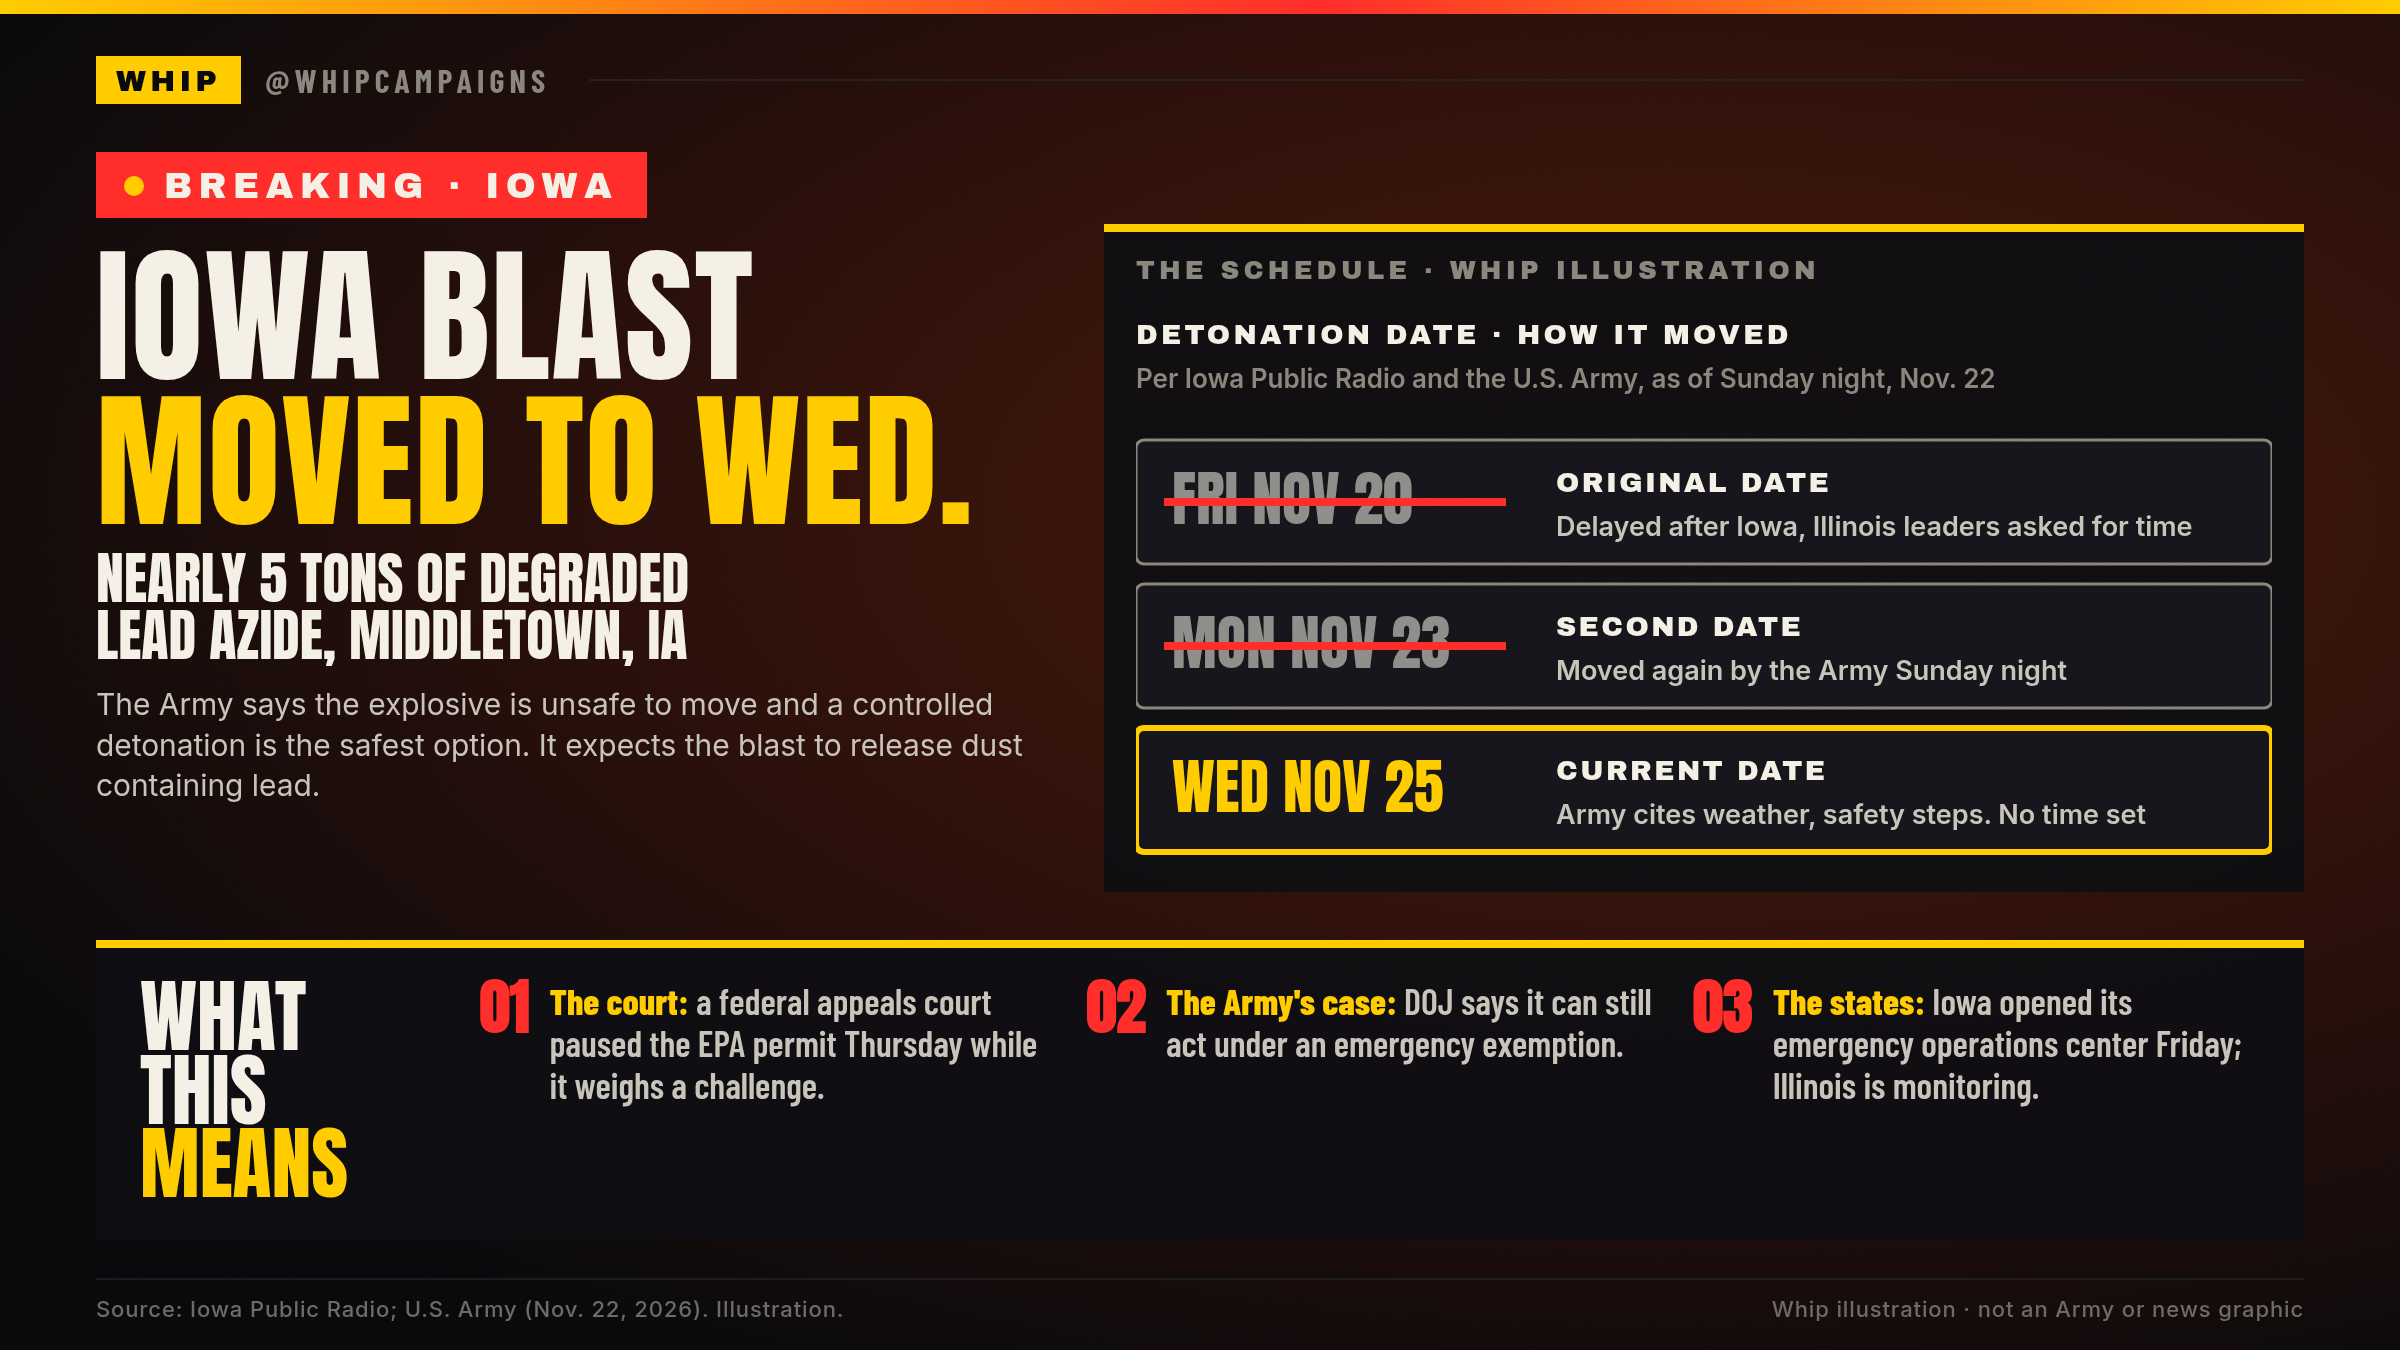
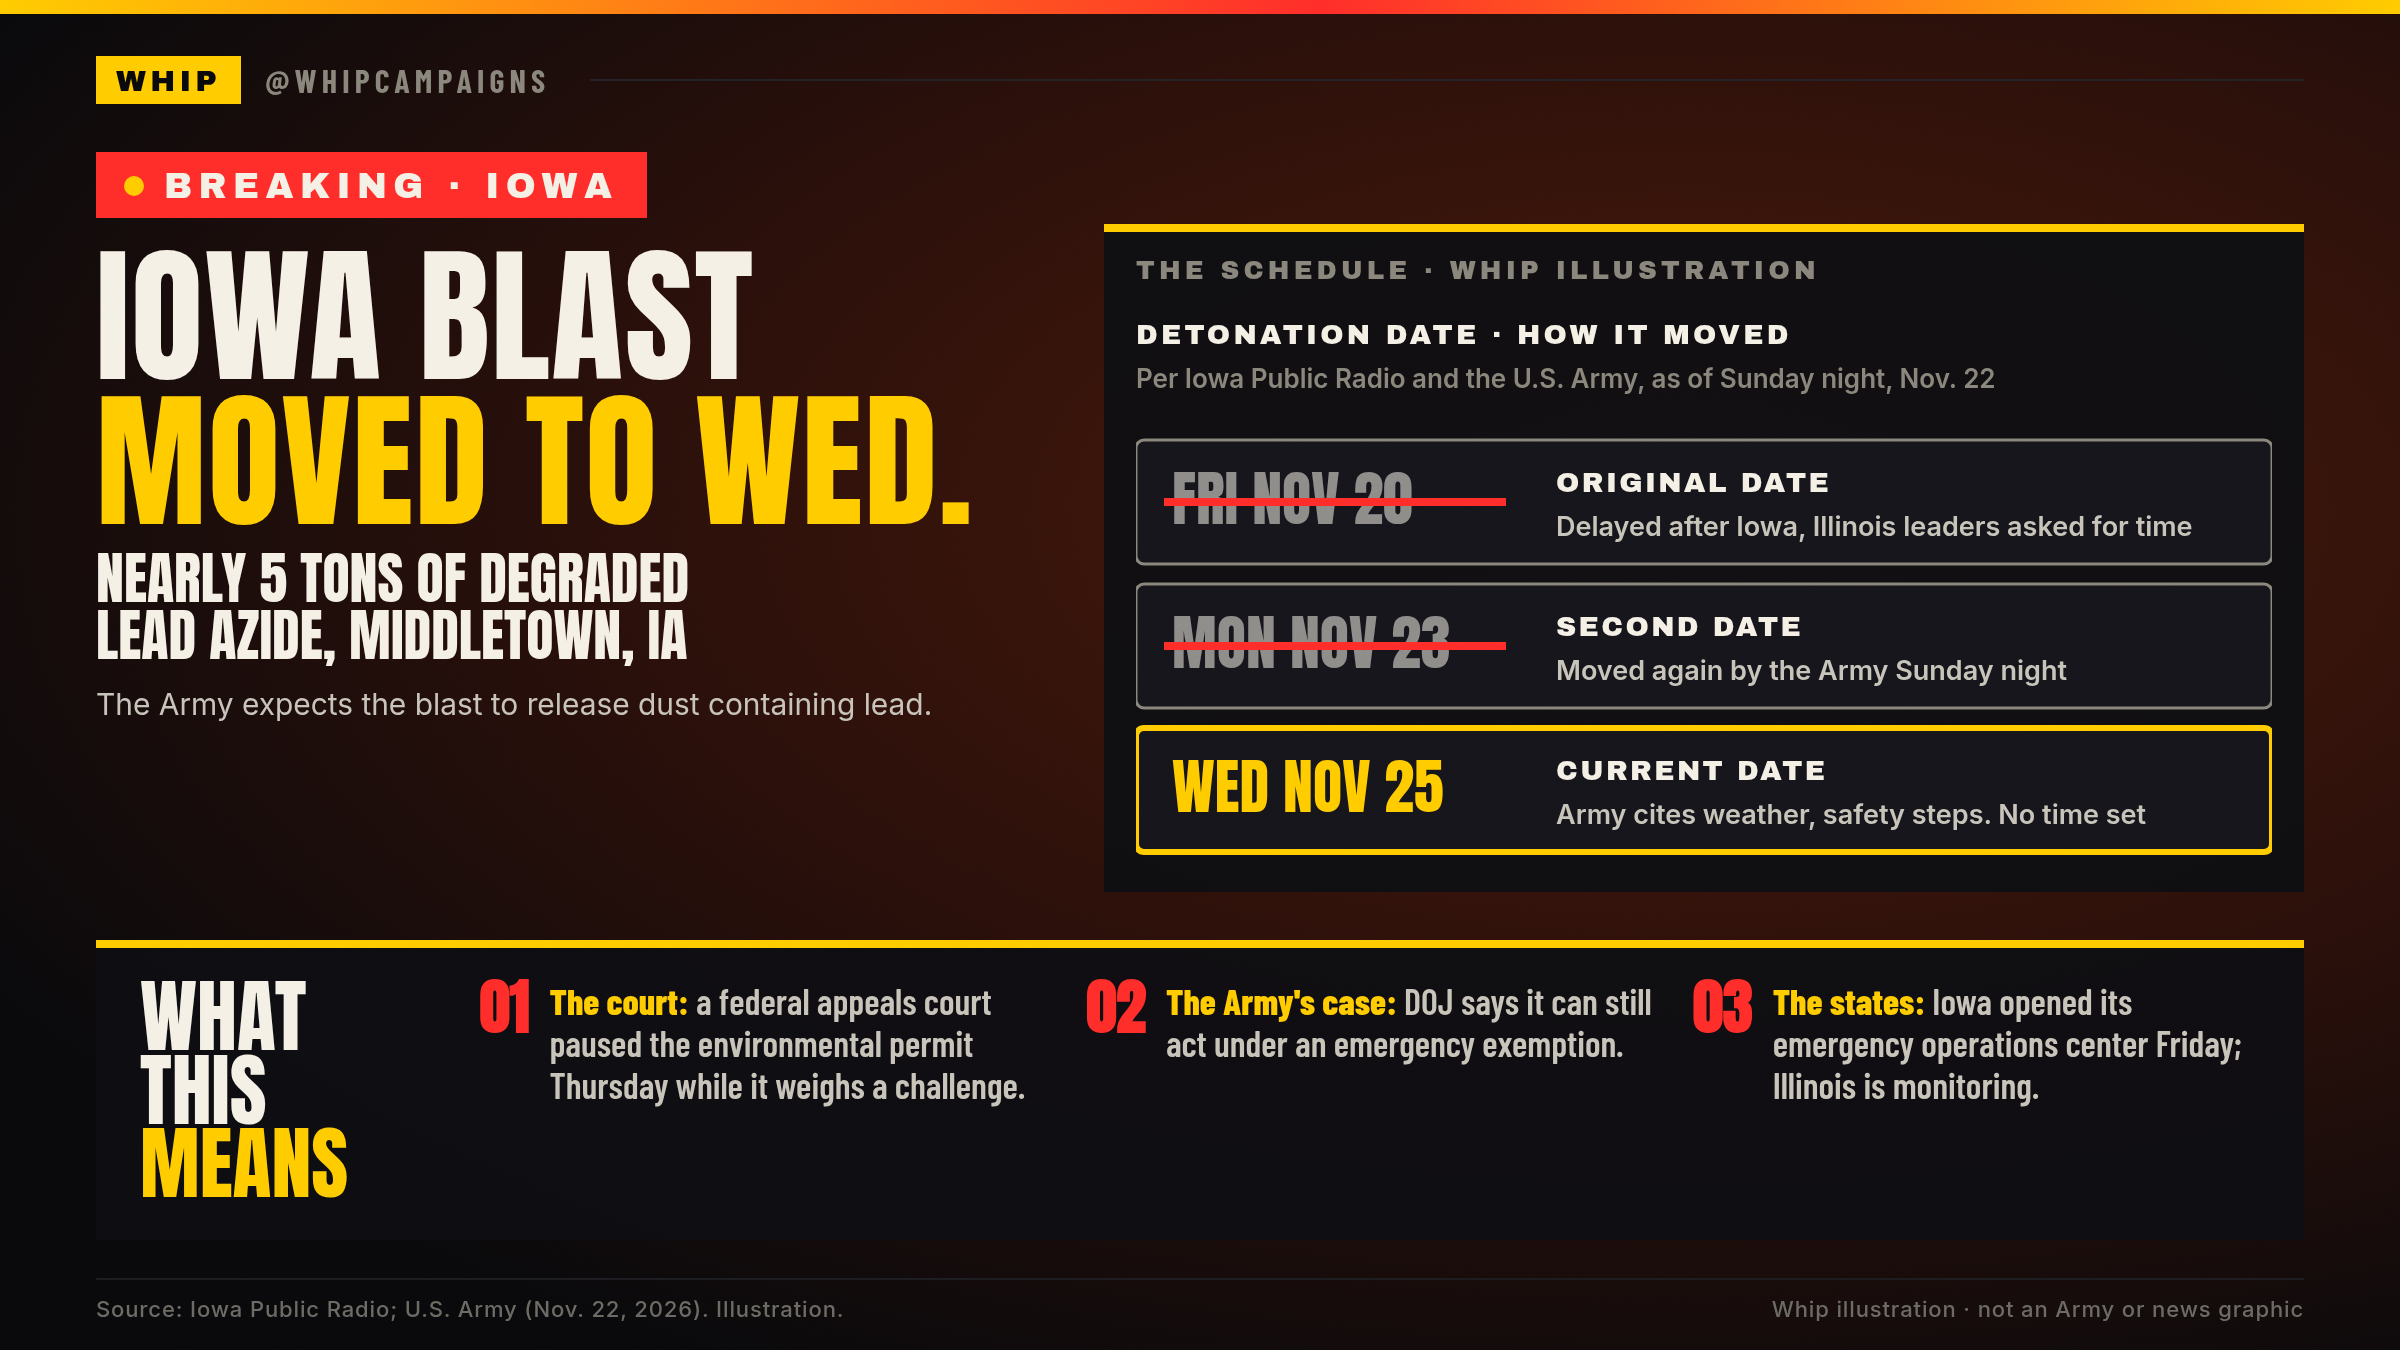
Iowa BREAKING card: environmental permit, trim unsourced Army line (Nov 22, 2026)

Changed region(s): [[0.0312, 0.4978, 0.4375, 0.5911], [0.2188, 0.7467, 0.4375, 0.84]]

diff --git a/breaking/2026-11-22-iowa-lead-azide-detonation/make_card.py b/breaking/2026-11-22-iowa-lead-azide-detonation/make_card.py
@@ -32,7 +32,7 @@ html = wrap(f"""
 <div class="left">
   <div class="h1">IOWA BLAST<br><span class="y">MOVED TO WED.</span></div>
   <div class="h2">NEARLY 5 TONS OF DEGRADED<br>LEAD AZIDE, MIDDLETOWN, IA</div>
-  <div class="att">The Army says the explosive is unsafe to move and a controlled detonation is the safest option. It expects the blast to release dust containing lead.</div>
+  <div class="att">The Army expects the blast to release dust containing lead.</div>
 </div>
 <div class="panel">
   <div class="ph">THE SCHEDULE &middot; WHIP ILLUSTRATION</div>
@@ -40,7 +40,7 @@ html = wrap(f"""
 </div>
 <div class="strip">
   <div class="wt">WHAT THIS<br><span class="y">MEANS</span></div>
-  <div class="b"><div class="n">01</div><div><b>The court:</b> a federal appeals court paused the EPA permit Thursday while it weighs a challenge.</div></div>
+  <div class="b"><div class="n">01</div><div><b>The court:</b> a federal appeals court paused the environmental permit Thursday while it weighs a challenge.</div></div>
   <div class="b"><div class="n">02</div><div><b>The Army's case:</b> DOJ says it can still act under an emergency exemption.</div></div>
   <div class="b"><div class="n">03</div><div><b>The states:</b> Iowa opened its emergency operations center Friday; Illinois is monitoring.</div></div>
 </div>

diff --git a/breaking/2026-11-22-iowa-lead-azide-detonation/tweet.md b/breaking/2026-11-22-iowa-lead-azide-detonation/tweet.md
@@ -1,14 +1,3 @@
-# BREAKING: Army moves Iowa lead azide detonation to Wed Nov 25 (Sun Nov 22, 2026)
+BREAKING: The Army moved its detonation of nearly 5 tons of degraded lead azide in Middletown, Iowa, to Wed., Nov. 25, citing weather and safety steps, per Iowa Public Radio.
 
-Draft (not posted, not scheduled). Quote of @GovPritzker https://x.com/GovPritzker/status/2124710939194728486 , attach card.png. No hook, no Whip scores.
-
-Post text (len 280):
-
-BREAKING: The Army moved its controlled detonation of nearly five tons of degraded lead azide at the Iowa Army Ammunition Plant to Wednesday, Nov. 25, citing weather and safety measures, per Iowa Public Radio.
-
-A federal appeals court has paused the EPA permit. What happens next?
-
-Sources:
-- Iowa Public Radio, Nov 22 9:11 PM CST: https://www.iowapublicradio.org/ipr-news/2026-11-22/southeast-iowa-lead-azide-explosion-wednesday-army
-- AP background: https://apnews.com/article/iowa-army-lead-detonation-2149f665a6116ab41490f8bda560e9fa
-- Iowa Gov. Reynolds release: https://governor.iowa.gov/press-release/2026-11-22/gov-reynolds-state-agencies-prepare-detonation-response
+An appeals court paused the permit; DOJ says the Army can still act under an emergency exemption.
